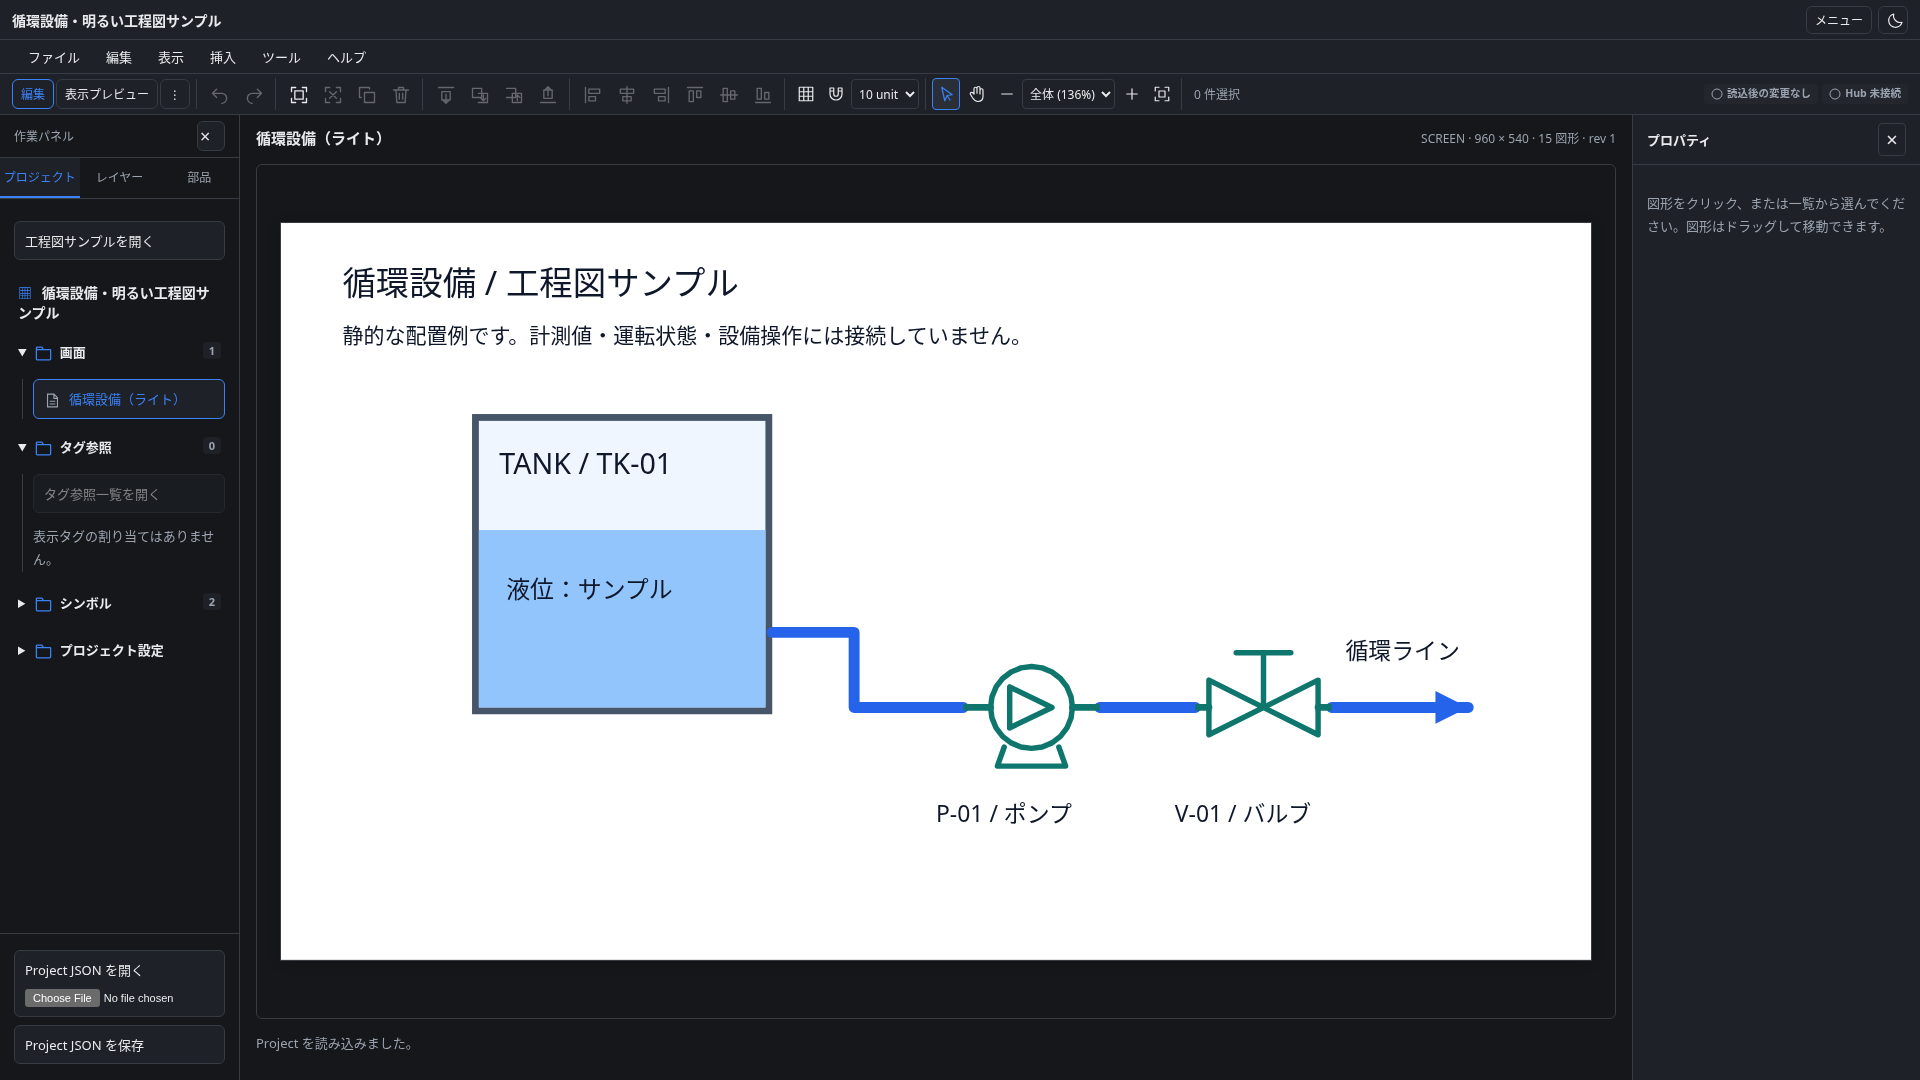
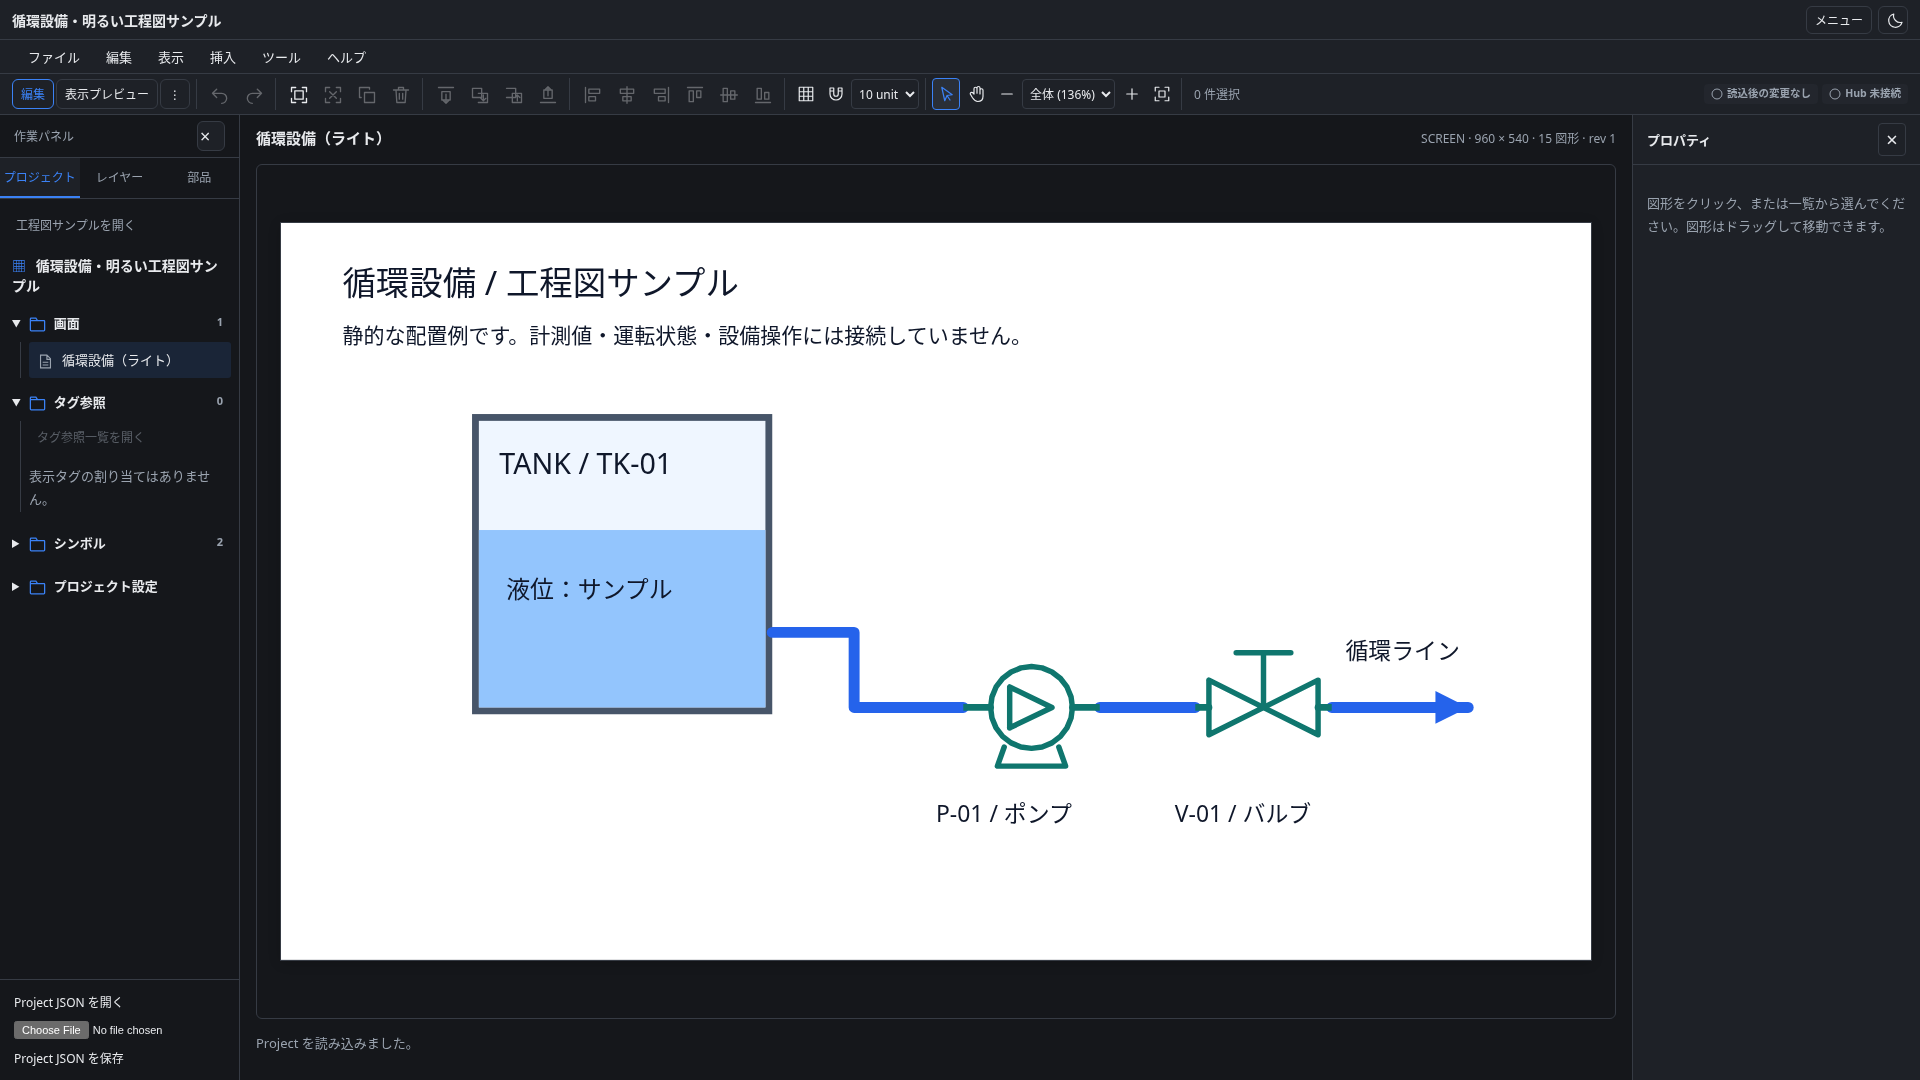
style: ツリー行のカード枠を外して参考デザインに寄せる

Changed region(s): [[0.0, 0.1833, 0.125, 0.4583], [0.0, 0.8861, 0.0938, 1.0], [0.0, 0.4889, 0.0938, 0.6111]]

diff --git a/apps/banto-scada/src/App.svelte b/apps/banto-scada/src/App.svelte
@@ -1600,7 +1600,7 @@
       </div>{/if}
     <DesignerSidebar bind:active={activePanel} editable={mode === "edit"}>
       {#snippet projectPanel()}
-        <button onclick={showProcessSample} disabled={busy}
+        <button class="sample-link" onclick={showProcessSample} disabled={busy}
           >工程図サンプルを開く</button
         >
         <div class="project-root" title={project.manifest.name}>
@@ -1631,6 +1631,7 @@
               {/snippet}
               {#if mode === "edit"}
                 <ContextActions
+                  flat
                   label={`画面：${item.name}`}
                   contextKey={`${workspaceGeneration}:${project.manifest.projectRevision}:${screen.id}:${selectedIds.join(",")}:${activePanel}:${showSidebar}:${mode}:${busy}:${!!drafts.pending}:${!!replacement}`}
                   items={screenContextItems(item.id)}
@@ -1788,8 +1789,8 @@
             bind:value={layerQuery}
             oninput={() => (layersExpanded = true)}
           />
-          <p>
-            {screen.name} · {selectedIds.length} 件選択。下の配置ほど前面です。
+          <p class="layer-caption">
+            {selectedIds.length} 件選択 · 下の配置ほど前面
           </p>
           <TreeSection
             label={screen.name}
@@ -2172,7 +2173,9 @@
   .layer-entry .layer-more {
     position: absolute;
     right: 3px;
-    top: 5px;
+    top: 3px;
+    border: 0;
+    background: transparent;
     width: 22px;
     height: 28px;
     padding: 0;
@@ -2188,10 +2191,64 @@
       opacity: 1;
     }
   }
+  .screen-row,
+  .layer-entry > button:first-child {
+    margin: 0;
+    padding: 7px 26px 7px 8px;
+    min-height: 36px;
+    border: 0;
+    border-radius: 3px;
+    background: transparent;
+    color: var(--banto-text);
+  }
+  .screen-row:hover {
+    background: color-mix(in srgb, var(--banto-primary) 6%, transparent);
+  }
+  .screen-row.active {
+    background: color-mix(in srgb, var(--banto-primary) 13%, transparent);
+    color: var(--banto-text);
+  }
+  .layer-entry > button:first-child:hover {
+    background: color-mix(in srgb, #14b8a6 8%, transparent);
+  }
+  .layer-entry > button:first-child.active {
+    background: color-mix(in srgb, #14b8a6 18%, transparent);
+  }
+  .screen-row:focus-visible,
+  .layer-entry > button:focus-visible {
+    box-shadow: inset var(--banto-focus-ring);
+  }
+  .layer-caption {
+    margin: 4px 2px 10px;
+    font-size: 11px;
+  }
+  .project-sidebar .sample-link,
+  .project-sidebar .reference-link {
+    margin: 0;
+    border: 0;
+    background: transparent;
+    padding: 7px 8px;
+    font-size: 12px;
+    color: var(--banto-text-muted);
+  }
+  .project-sidebar .sample-link:hover,
+  .project-sidebar .reference-link:enabled:hover {
+    color: var(--banto-primary);
+    background: color-mix(in srgb, var(--banto-primary) 6%, transparent);
+  }
   .sidebar-files {
     padding: 8px 14px;
     border-top: 1px solid var(--banto-border);
     flex-shrink: 0;
+  }
+  .sidebar-files .file,
+  .sidebar-files button {
+    border: 0;
+    background: transparent;
+    border-radius: 0;
+    padding: 5px 0;
+    margin: 0;
+    font-size: 12px;
   }
   .sidebar-files .hint {
     display: none;

diff --git a/apps/banto-scada/src/lib/designer/SymbolLibrary.svelte b/apps/banto-scada/src/lib/designer/SymbolLibrary.svelte
@@ -1,5 +1,6 @@
 <script lang="ts">
   import { tick } from "svelte";
+  import SymbolThumbnail from "./SymbolThumbnail.svelte";
   import SymbolUsages from "./SymbolUsages.svelte";
   import { symbolUsages, type SymbolUsage } from "../symbol-usages";
   import ContextActions, { type ContextAction } from "./ContextActions.svelte";
@@ -103,6 +104,7 @@
     <nav aria-label="共有 Symbol 一覧">
       {#each project.symbols as definition (definition.id)}
         <ContextActions
+          flat
           label={`共有定義：${definition.name}`}
           contextKey={`${contextKey}:${selected.id}:${editingDefinition}`}
           items={actions(definition.id)}
@@ -115,9 +117,9 @@
             aria-pressed={selected.id === definition.id}
             onclick={() => onchoose(definition.id)}
           >
-            <span>{definition.name}</span><small
-              >{symbolUsage(project, definition.id)} 配置で共有</small
-            >
+            <SymbolThumbnail {definition} compact /><span
+              >{definition.name}</span
+            ><small>{symbolUsage(project, definition.id)} 配置で共有</small>
           </button>
         </ContextActions>
       {/each}
@@ -194,22 +196,40 @@
   }
   nav {
     display: grid;
-    gap: 4px;
+    gap: 0;
     max-height: 240px;
     overflow-y: auto;
     padding: 3px;
     margin: 0 -3px;
   }
   .definition-row {
-    display: grid;
-    gap: 3px;
+    display: flex;
+    align-items: center;
+    gap: 8px;
+    min-height: 36px;
+    border: 0;
+    border-radius: 3px;
+    background: transparent;
     margin: 0;
-    padding-right: 24px;
+    padding: 7px 24px 7px 8px;
     overflow-wrap: anywhere;
   }
+  .definition-row:hover {
+    background: color-mix(in srgb, var(--banto-primary) 6%, transparent);
+  }
   .definition-row.active {
-    border-color: var(--banto-primary);
-    color: var(--banto-primary);
+    background: color-mix(in srgb, var(--banto-primary) 13%, transparent);
+  }
+  .definition-row > span {
+    flex: 1;
+    min-width: 0;
+  }
+  .definition-row small {
+    max-width: 45%;
+    font-size: 10px;
+  }
+  .definition-row:focus-visible {
+    box-shadow: inset var(--banto-focus-ring);
   }
   small {
     font-size: 11px;

diff --git a/apps/banto-scada/src/lib/designer/TreeSection.svelte b/apps/banto-scada/src/lib/designer/TreeSection.svelte
@@ -37,18 +37,19 @@
 
 <style>
   .tree-section {
-    margin: 4px 0 10px;
+    margin: 2px 0 6px;
   }
   summary {
     cursor: pointer;
     padding: 8px 4px;
-    border-radius: 5px;
+    min-height: 36px;
+    border-radius: 3px;
     font-size: 13px;
     font-weight: 600;
     overflow-wrap: anywhere;
   }
   summary:hover {
-    background: var(--banto-surface);
+    background: color-mix(in srgb, var(--banto-primary) 6%, transparent);
   }
   summary:focus-visible {
     outline: none;
@@ -61,15 +62,13 @@
   }
   .count {
     float: right;
-    padding: 1px 6px;
-    border-radius: 4px;
-    background: var(--banto-surface);
+    padding: 1px 4px;
     color: var(--banto-text-muted);
     font-size: 11px;
   }
   .branches {
-    margin-left: 8px;
-    padding-left: 10px;
+    margin-left: 12px;
+    padding-left: 8px;
     border-left: 1px solid var(--banto-border);
   }
 </style>

diff --git a/apps/banto-scada/src/lib/designer/ContextActions.svelte b/apps/banto-scada/src/lib/designer/ContextActions.svelte
@@ -16,12 +16,14 @@
     items,
     children,
     floating = false,
+    flat = false,
   }: {
     label: string;
     contextKey: string;
     items: ContextAction[];
     children?: Snippet;
     floating?: boolean;
+    flat?: boolean;
   } = $props();
   let root = $state<HTMLDivElement>();
   let menuButton = $state<HTMLButtonElement>();
@@ -152,6 +154,7 @@
 
 <div
   class="context-anchor"
+  class:flat
   class:floating
   style:left={floating ? `${anchor.x}px` : undefined}
   style:top={floating ? `${anchor.y}px` : undefined}
@@ -242,6 +245,14 @@
   .context-anchor:hover .more,
   .context-anchor:focus-within .more {
     opacity: 1;
+  }
+  .flat .more {
+    border: 0;
+    background: transparent;
+    top: 4px;
+    right: 2px;
+    width: 22px;
+    min-height: 28px;
   }
   .more:focus-visible {
     outline: none;

diff --git a/apps/banto-scada/src/lib/designer/DesignerSidebar.svelte b/apps/banto-scada/src/lib/designer/DesignerSidebar.svelte
@@ -123,7 +123,7 @@
   .panel {
     min-height: 0;
     overflow: auto;
-    padding: 14px;
+    padding: 10px 8px;
     flex: 1;
   }
   .panel[hidden] {

diff --git a/docs/development-plan.md b/docs/development-plan.md
@@ -3,6 +3,16 @@
 状態: **Banto 基盤の最小工程図エディタを実装。折れ線と共有 Symbol に対応。Core v1 全体は未実装**。
 決定日: 2026-10-18。ユーザー指示: industrial の開発を継続しつつ temp-scada で SCADA を先行開発し、最終的に industrial に戻す。
 
+## ツリー行をフラットなデザインへ調整（2026-10-19・同日後続）
+
+ユーザーの「カードに入れず参考デザインへ寄せる」という指示に従い、画面・レイヤー・共有シンボルの各行から常時の枠・背景・大きな余白を除いた。行が連続するツリーとし、hoverと選択時だけ淡い背景を付ける。プロジェクトは青、レイヤーは青緑の選択背景を使い、キーボードフォーカスは別の内側リングで識別する。行の操作ボタンも枠を外し、hover／focus時に表示する既存操作を維持した。
+
+左パネルの余白・枝の間隔・件数表示を整理し、重複した画面名を含むレイヤー説明は短くした。共有シンボルも縮小アイコン付きの行へ揃え、サンプル／タグ参照への移動と下部ファイル操作の外枠も除いた。検索欄と設定用入力は操作欄として残す。Projectモデル・選択・入力保護・右クリックの契約は変更しない。
+
+実画面はツリー表示の[ライト](assets/frontend-ux/project-tree-light.png)／[ダーク](assets/frontend-ux/project-tree-dark.png)、レイヤー検索の[ライト](assets/frontend-ux/layer-tree-light.png)／[ダーク](assets/frontend-ux/layer-tree-dark.png)を更新した。
+
+検証: `pnpm check`（エラー・警告なし）、関連E2E28件、本番ビルドに成功。画面／レイヤー／共有定義の選択・右クリック・入力保護・キーボード操作、両テーマ・小画面を確認し、実画面を撮り直した。見た目の調整のためモデルの単体テストやschemaは変更していない。
+
 ## プロジェクト・レイヤーのツリー表示（2026-10-19・同日後続）
 
 ユーザーの添付イメージをもとに、プロジェクトを「画面／タグ参照／シンボル／プロジェクト設定」の開閉できる枝へ整理した。Project 名・画面数・参照タグ数・共有定義数を表示し、画面行の選択・右クリック、共有定義の管理と使用先確認は既存コマンドを使う。タグ参照の枝から既存の下部参照一覧を展開・再表示できる。Hub catalog を示すものではない。設定には従来の画面管理・画面／定義の設定を収め、Project全体の新しい設定項目は追加していない。
